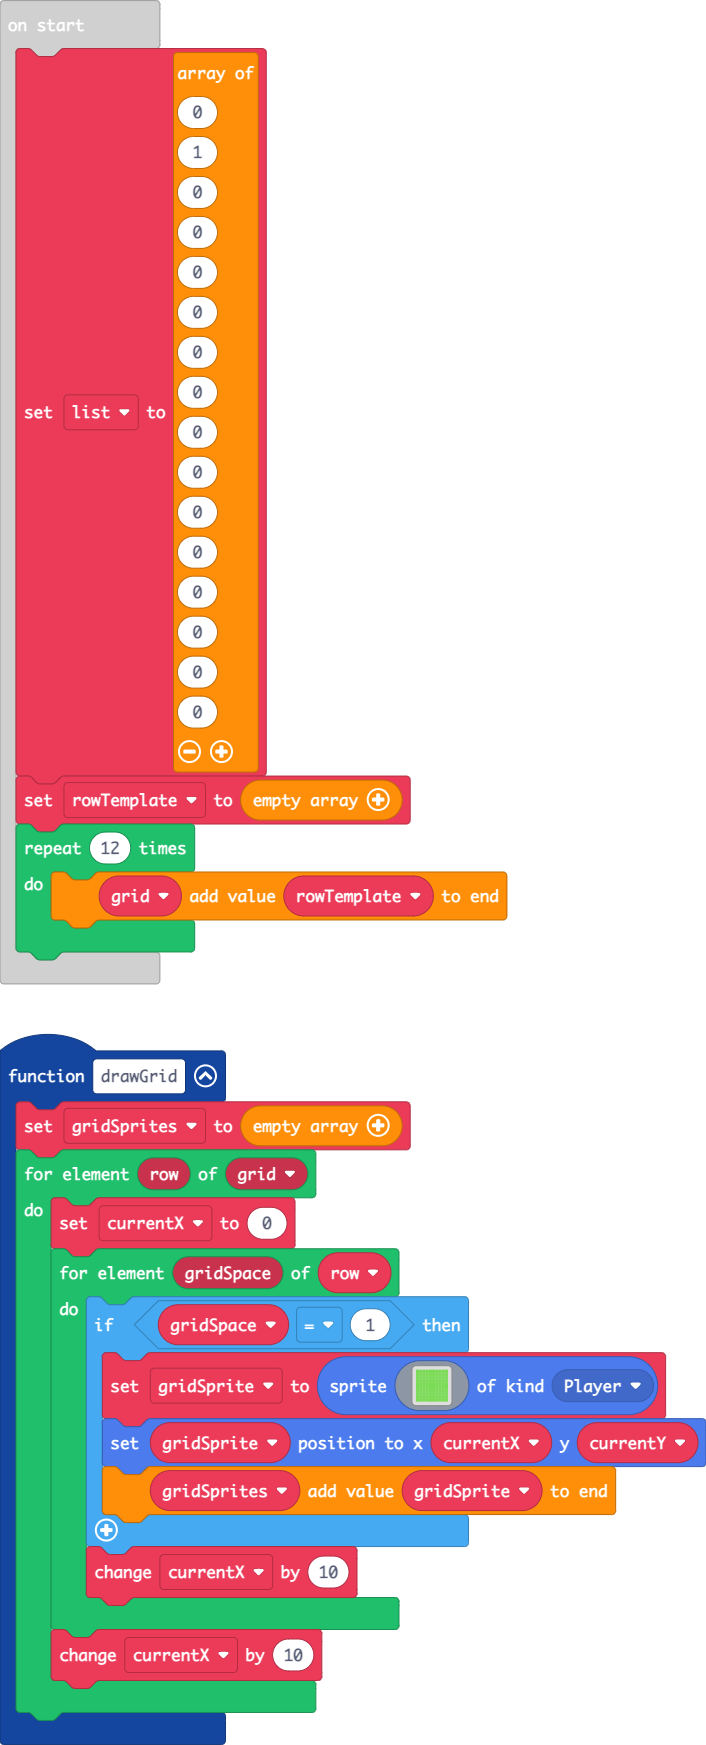
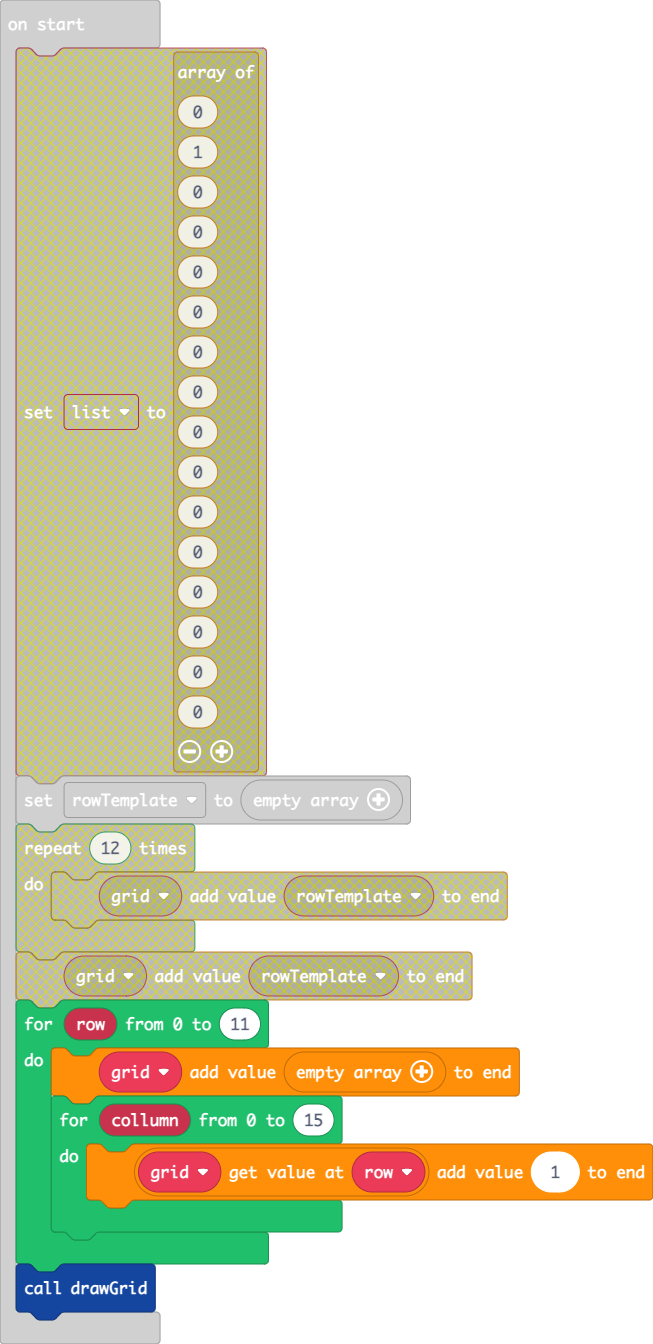
Update main.blocks, main.ts

diff --git a/main.ts b/main.ts
@@ -29,25 +29,11 @@ let gridSprite: Sprite = null
 let currentX = 0
 let gridSprites: Sprite[] = []
 let grid: number[][] = []
-let list = [
-0,
-1,
-0,
-0,
-0,
-0,
-0,
-0,
-0,
-0,
-0,
-0,
-0,
-0,
-0,
-0
-]
 let rowTemplate: number[] = []
-for (let index = 0; index < 12; index++) {
-    grid.push(rowTemplate)
+for (let row = 0; row <= 11; row++) {
+    grid.push([])
+    for (let collumn = 0; collumn <= 15; collumn++) {
+        grid[row].push(1)
+    }
 }
+drawGrid()
